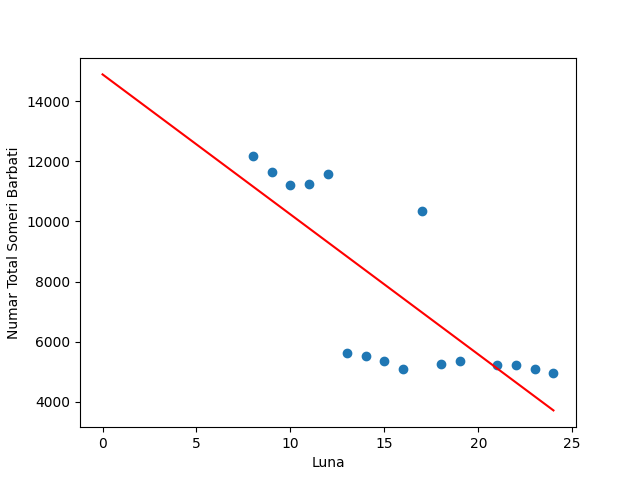
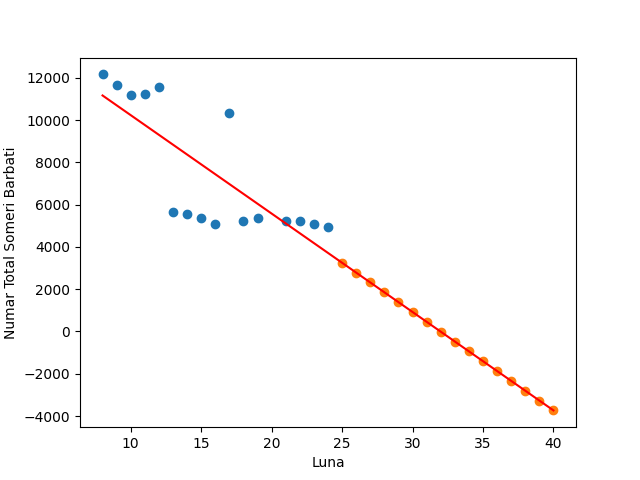
Upgraded the model plot for the PredictionApp(added predicted values on the plot)

diff --git a/PredictionApp/linear_regression.py b/PredictionApp/linear_regression.py
@@ -67,9 +67,20 @@ class LinearRegression:
 
         plt.scatter(feature, label);
 
-        x0 = 0;
-        y0 = w0;
-        x1 = feature[-1];
+        feature_prediction = [];
+        label_prediction = [];
+        for predicted_points_iterator in range(len(feature)):
+            feature_prediction.append(feature[len(feature) - 1] + predicted_points_iterator + 1);
+            label_prediction.append(w0 + (w1 * feature_prediction[len(feature_prediction) - 1]));
+
+        plt.scatter(feature_prediction, label_prediction);
+
+        feature.extend(feature_prediction);
+        joined_feature = feature;
+
+        x0 = joined_feature[0];
+        y0 = w0 + (w1 * x0);
+        x1 = joined_feature[-1];
         y1 = w0 + (w1 * x1);
         plt.plot([x0, x1], [y0, y1], c = 'r');
 
